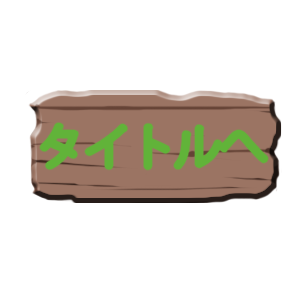
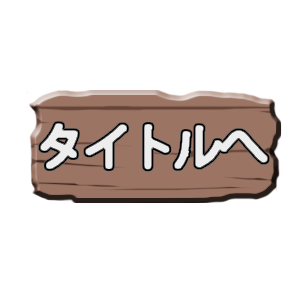
ボタンの強調の処理を変更した

Changed region(s): [[0.12, 0.39, 0.9, 0.57]]

diff --git a/Assets/menber/mastuda/Scripts/ScenarioArea/ButtonAnim.cs b/Assets/menber/mastuda/Scripts/ScenarioArea/ButtonAnim.cs
@@ -4,17 +4,72 @@ using UnityEngine;
 using UnityEngine.UI;
 
 public class ButtonAnim : MonoBehaviour {
-    
-	// Use this for initialization
-	void Start () {
-	}
-	
-	// Update is called once per frame
-	void Update () {
-	}
 
-    private void ButtonEnlargement()
+    [SerializeField] private float mMaxScale = 1.1f;
+    [SerializeField] private float mTimer = 0.5f;
+
+    private RectTransform mRectTransform;
+    private bool mIsScaleUp = false;
+    private bool mIsAction = false;
+
+    private void Start()
     {
-       
+        mRectTransform = GetComponent<RectTransform>();
+        mIsAction = true;
+        ScaleUp();
+    }
+
+    public void StartAction()
+    {
+        mIsAction = true;
+        ScaleUp();
+    }
+    public void StopAction()
+    {
+        StartCoroutine(ScaleUpAction());
+    }
+    private void ScaleUp()
+    {
+        StartCoroutine(ScaleUpAction());
+    }
+    IEnumerator ScaleUpAction()
+    {
+        var localScale = mRectTransform.localScale;
+        var scale = localScale.x;
+        var time = 0f;
+        while(time < 1)
+        {
+            if (!mIsAction) yield break;
+            time += (1 / mTimer) * Time.deltaTime;
+            if (time >= 1f) time = 1f;
+            scale = Mathf.Lerp(1, mMaxScale, time);
+            localScale.x = scale;
+            localScale.y = scale;
+            mRectTransform.localScale = localScale;
+            yield return null;
+        }
+        if (mIsAction) ScaleDown();
+    }
+    private void ScaleDown()
+    {
+        StartCoroutine(ScaleDownAction());
+    }
+    IEnumerator ScaleDownAction()
+    {
+        var localScale = mRectTransform.localScale;
+        var scale = localScale.x;
+        var time = 0f;
+        while (time < 1)
+        {
+            if (!mIsAction) yield break;
+            time += (1 / mTimer) * Time.deltaTime;
+            if (time >= 1f) time = 1f;
+            scale = Mathf.Lerp(1, mMaxScale, 1 - time);
+            localScale.x = scale;
+            localScale.y = scale;
+            mRectTransform.localScale = localScale;
+            yield return null;
+        }
+        if (mIsAction) ScaleUp();
     }
 }
